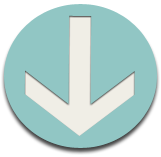
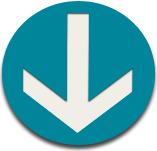
Fixing colors headers & links target

diff --git a/app/assets/stylesheets/home.css.scss b/app/assets/stylesheets/home.css.scss
@@ -21,10 +21,17 @@ footer {
 h1 {
 	font-family: 'Dancing Script', cursive;
 	font-size: 9em;
-	color: #5fabaf;
 	text-shadow: #ffffff 1px 1px 1px;
 	text-align: center;
 }
+
+#hello h1, #aboutme h1 { 
+	color: #0f8498;
+	}
+	
+#portfolio, #contact { 
+	color: #5fabaf;
+	}
 
 #main_container {
 	margin: 0 auto;
@@ -53,7 +60,7 @@ h1 {
 	display: inline;
 	font-family: 'Times New Roman', Times, Georgia, regular;
 	font-size: 2.5em;
-	color: #5fabaf;
+	color: #0a7182;
 	text-shadow: #ffffff 1px 1px 1px;
 	text-align: center;
 	margin: 0 auto;
@@ -62,7 +69,7 @@ h1 {
 #hello h3 {
 	font-family: 'Times New Roman', regular;
 	font-size: 2.5em;
-	color: #5fabaf;
+	color: #0a7182;
 	text-shadow: #ffffff 1px 1px 1px;
 	line-height: 150%;
 	text-align: center;	
@@ -288,7 +295,7 @@ h1 {
 	float: left;
 	position: relative;
 	width: 205px;
-	border: outset 3px #5fabaf;
+	border: outset 2px #5fabaf;
 	background: #5fabaf; 
 	/* css3 */
 	-webkit-border-radius:10px;
